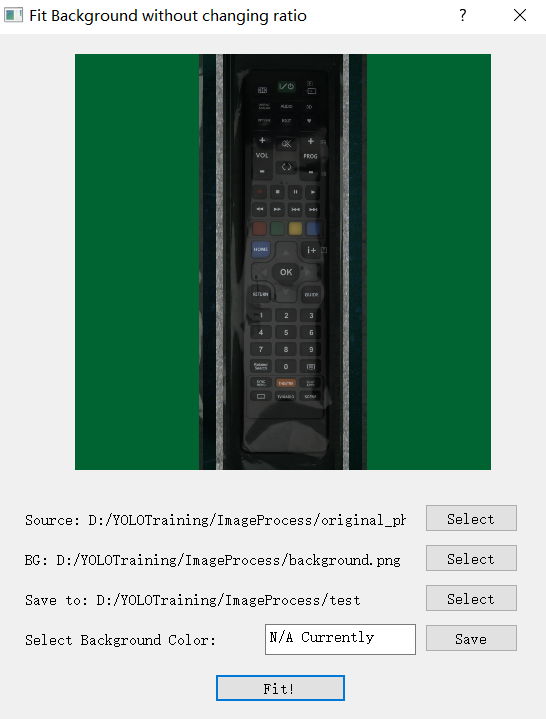
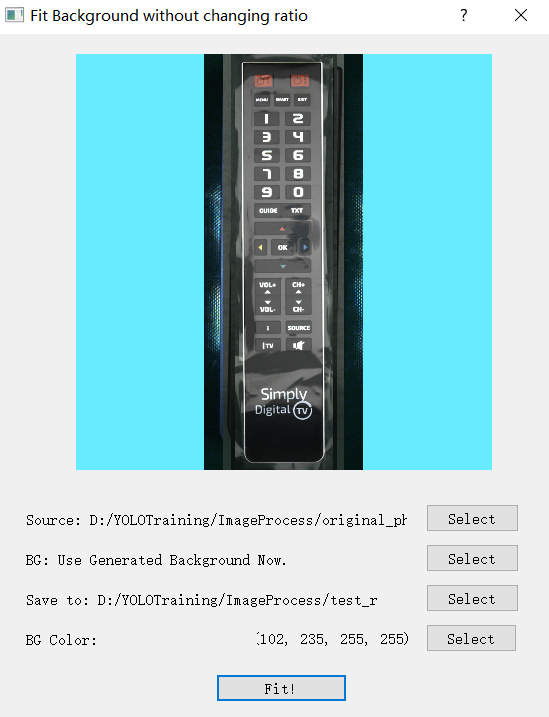
Update README

diff --git a/README.md b/README.md
@@ -1,5 +1,5 @@
 # ImageCap
-**Select Language**: English | [Simplified Chinese](https://github.com/marc0cheung/ImageCap/blob/main/README_SimplifiedCN.md) 
+**Select Language**: English | [简体中文](https://github.com/marc0cheung/ImageCap/blob/main/README_SimplifiedCN.md) 
 
 <br>
 
@@ -62,9 +62,15 @@ To train a neural network, it is often necessary to take photos of the target at
 
 <br>
 
-This function page is illustrated on the Picture below. Simply select the path where the original image is stored, select the path where the rotation results will be saved and click the Rotate button to start a random rotation, the live rotation results can be seen in the window in real time. The ability to fix the rotation angle is still under development and will be updated in the next version of ImageCap.
+This function page is illustrated on the Picture below. Simply select the path where the original image is stored, select the path where the rotation results will be saved and click the Rotate button to start a random rotation, the live rotation results can be seen in the window in real time. Support rotation angle customization now. Simply input the degree you want in the degree input box and press "Save". Then "Rotate". Use `any degree value > 0` to rotate anti-clockwise, and use `any degree value < 0` e.g. (-30) to rotate clockwise.
 
 <div align="center"><img src="https://github.com/marc0cheung/ImageCap/raw/main/readme_assets/randomRotateWindow.png" alt="randomRotateWindow" width="300px" /></div>
+
+<br>
+
+**Example of rotating an image using a fixed angle:**
+
+<div align="center"><img src="https://github.com/marc0cheung/ImageCap/raw/main/readme_assets/randomRotateWindow_FIXED.png" alt="randomRotateWindow_FIXED" width="300px" /></div>
 
 <br>
 
@@ -82,7 +88,15 @@ The function page is shown below. Simply select the path where the target image 
 
 <br>
 
-Currently, you need to create your own background image in MS Paint with a size of 416 * 416 (currently it must be 416 * 416) and then select this image in the program. The ability to custom select a solid colour background, and the ability to customise the size of the background is not yet developed and will be released in the next version of ImageCap.
+Currently, you need to create your own background image in MS Paint with a size of 416 * 416 (currently it must be 416 * 416) and then select this image in the program. Or just use the QColorDialog to select a background color by clicking the select button of the Background Color section, then the programme will automatically generated a 416*416 background image with the color you've chosen. 
+
+<div align="center"><img src="https://github.com/marc0cheung/ImageCap/raw/main/readme_assets/selectColorFitBG.png" alt="selectColorFitBG" width="700px" /></div>
+
+<br>
+
+If you choose to use the generated background image, you do **NOT** need to select a background image again, the programme will automatically set the background image path to the generated background image.
+
+The ability to customise the size of the background is not yet developed and will be released in the next version of ImageCap.
 
 <br>
 
